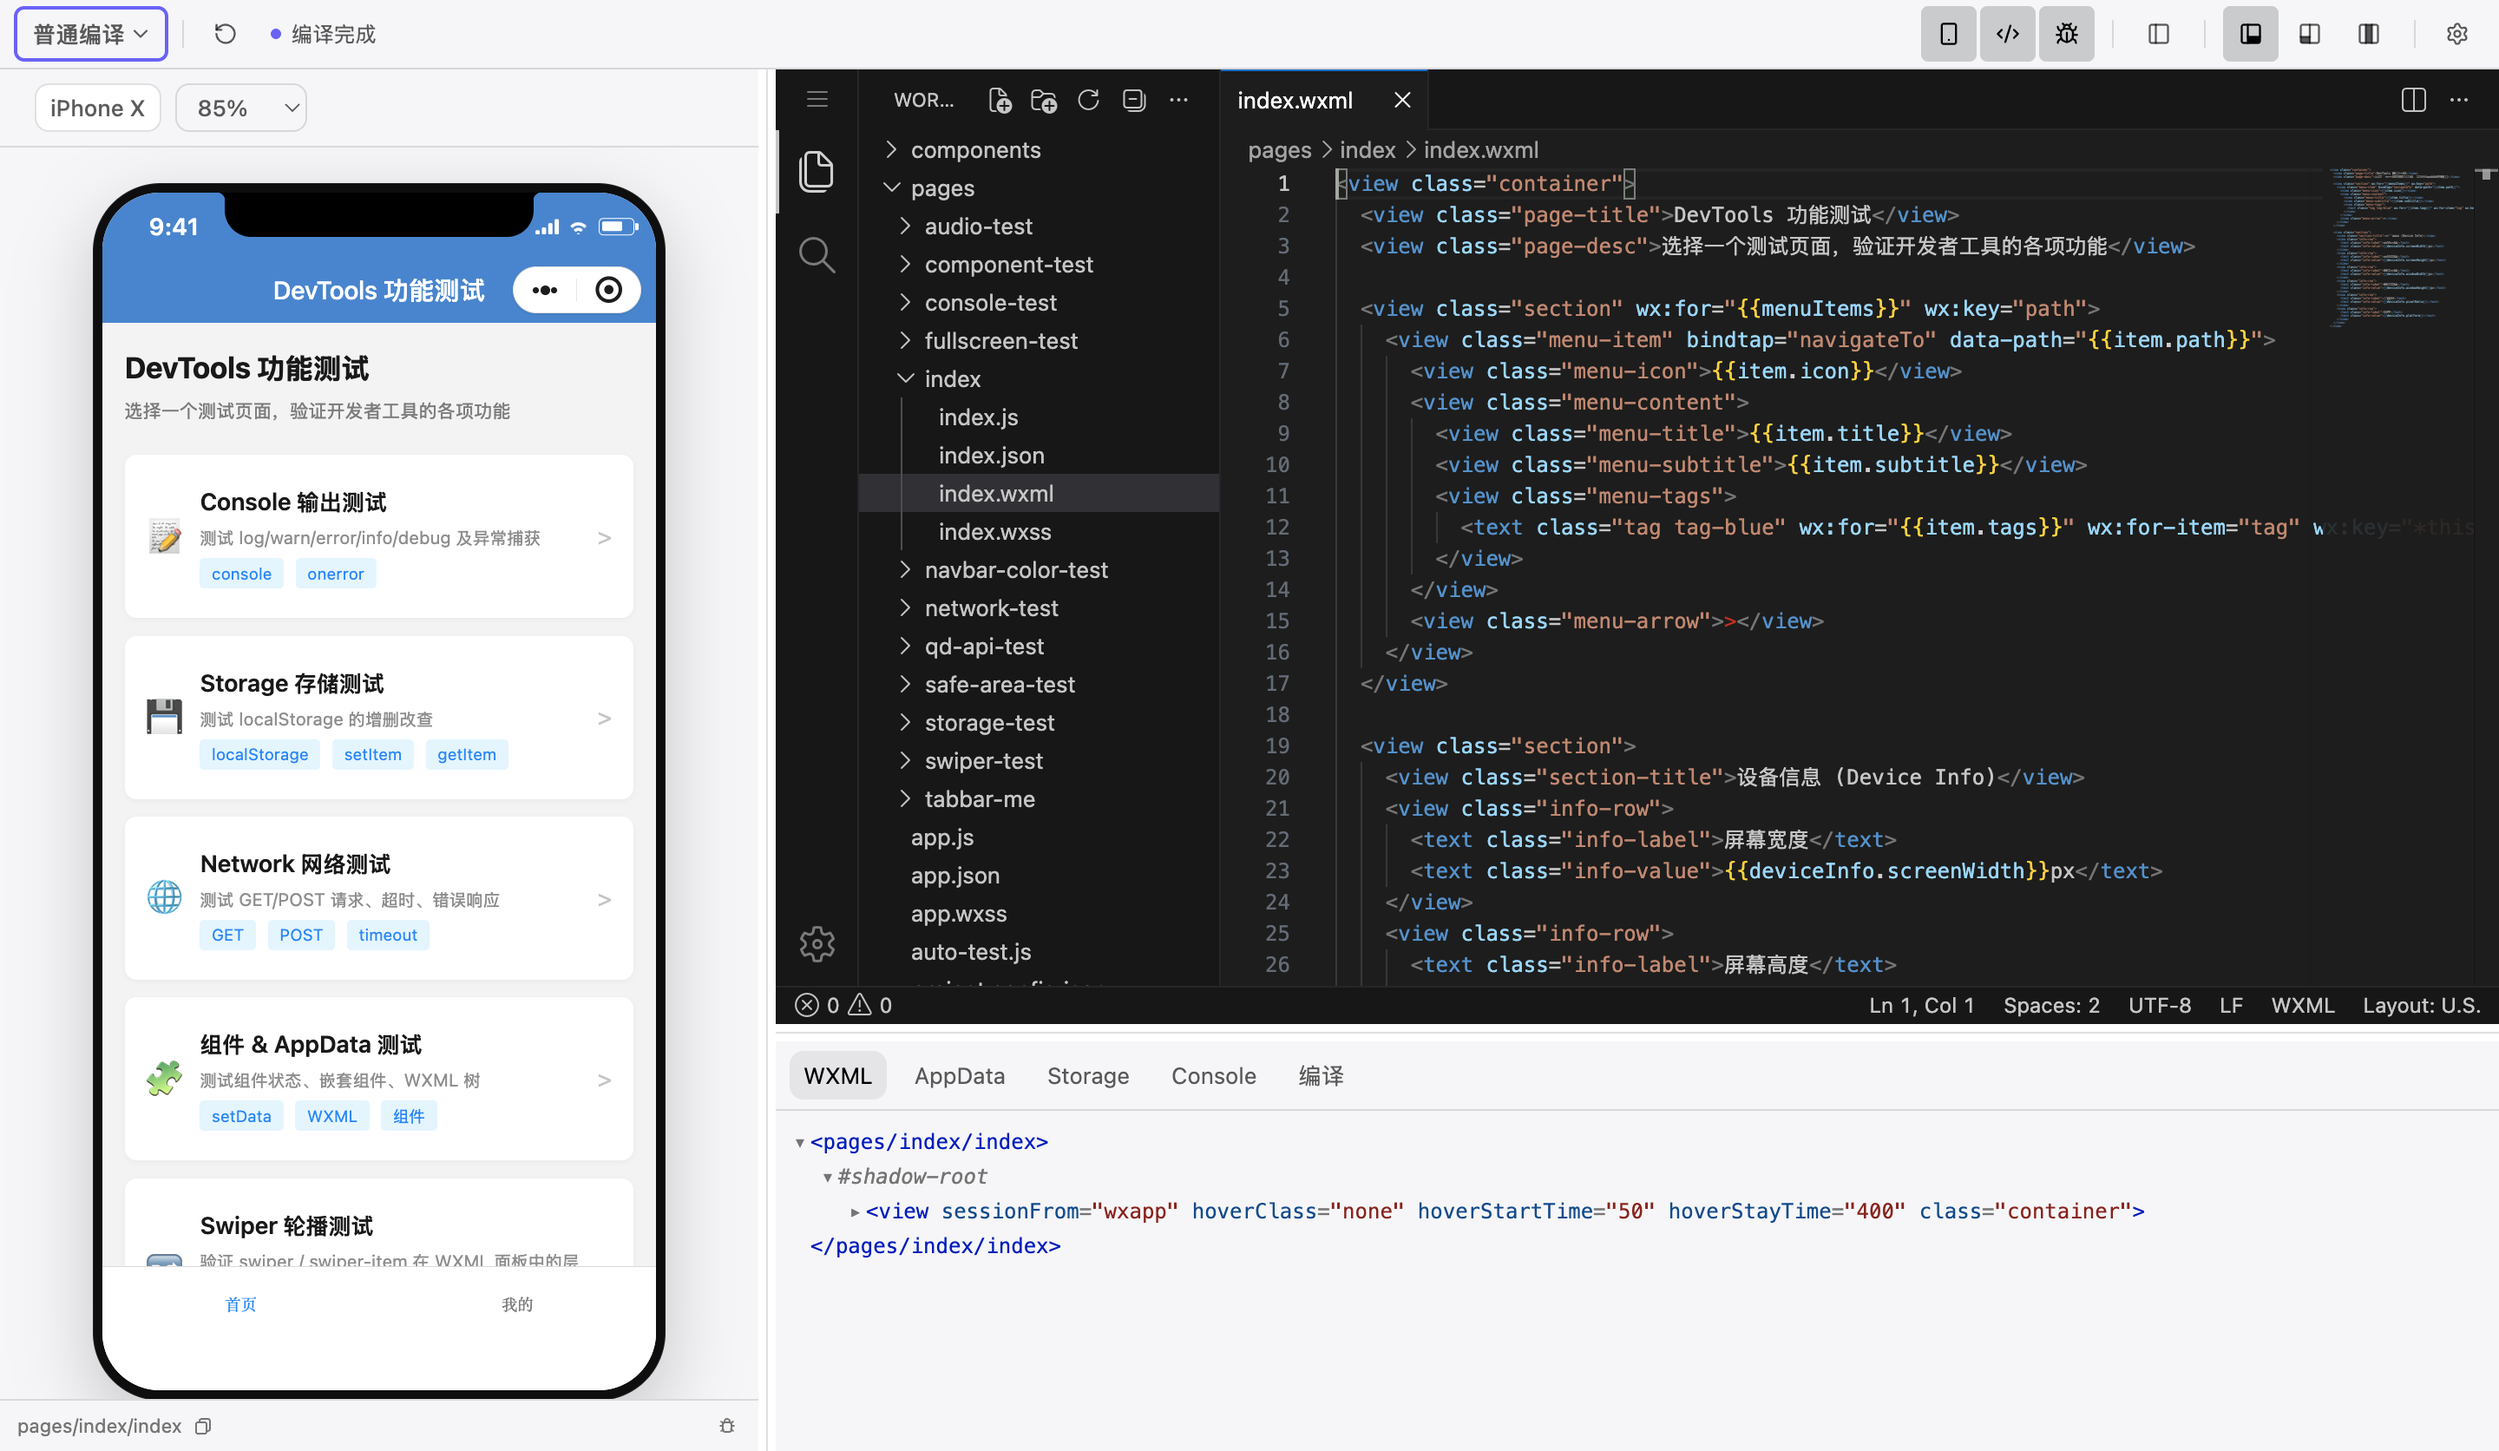
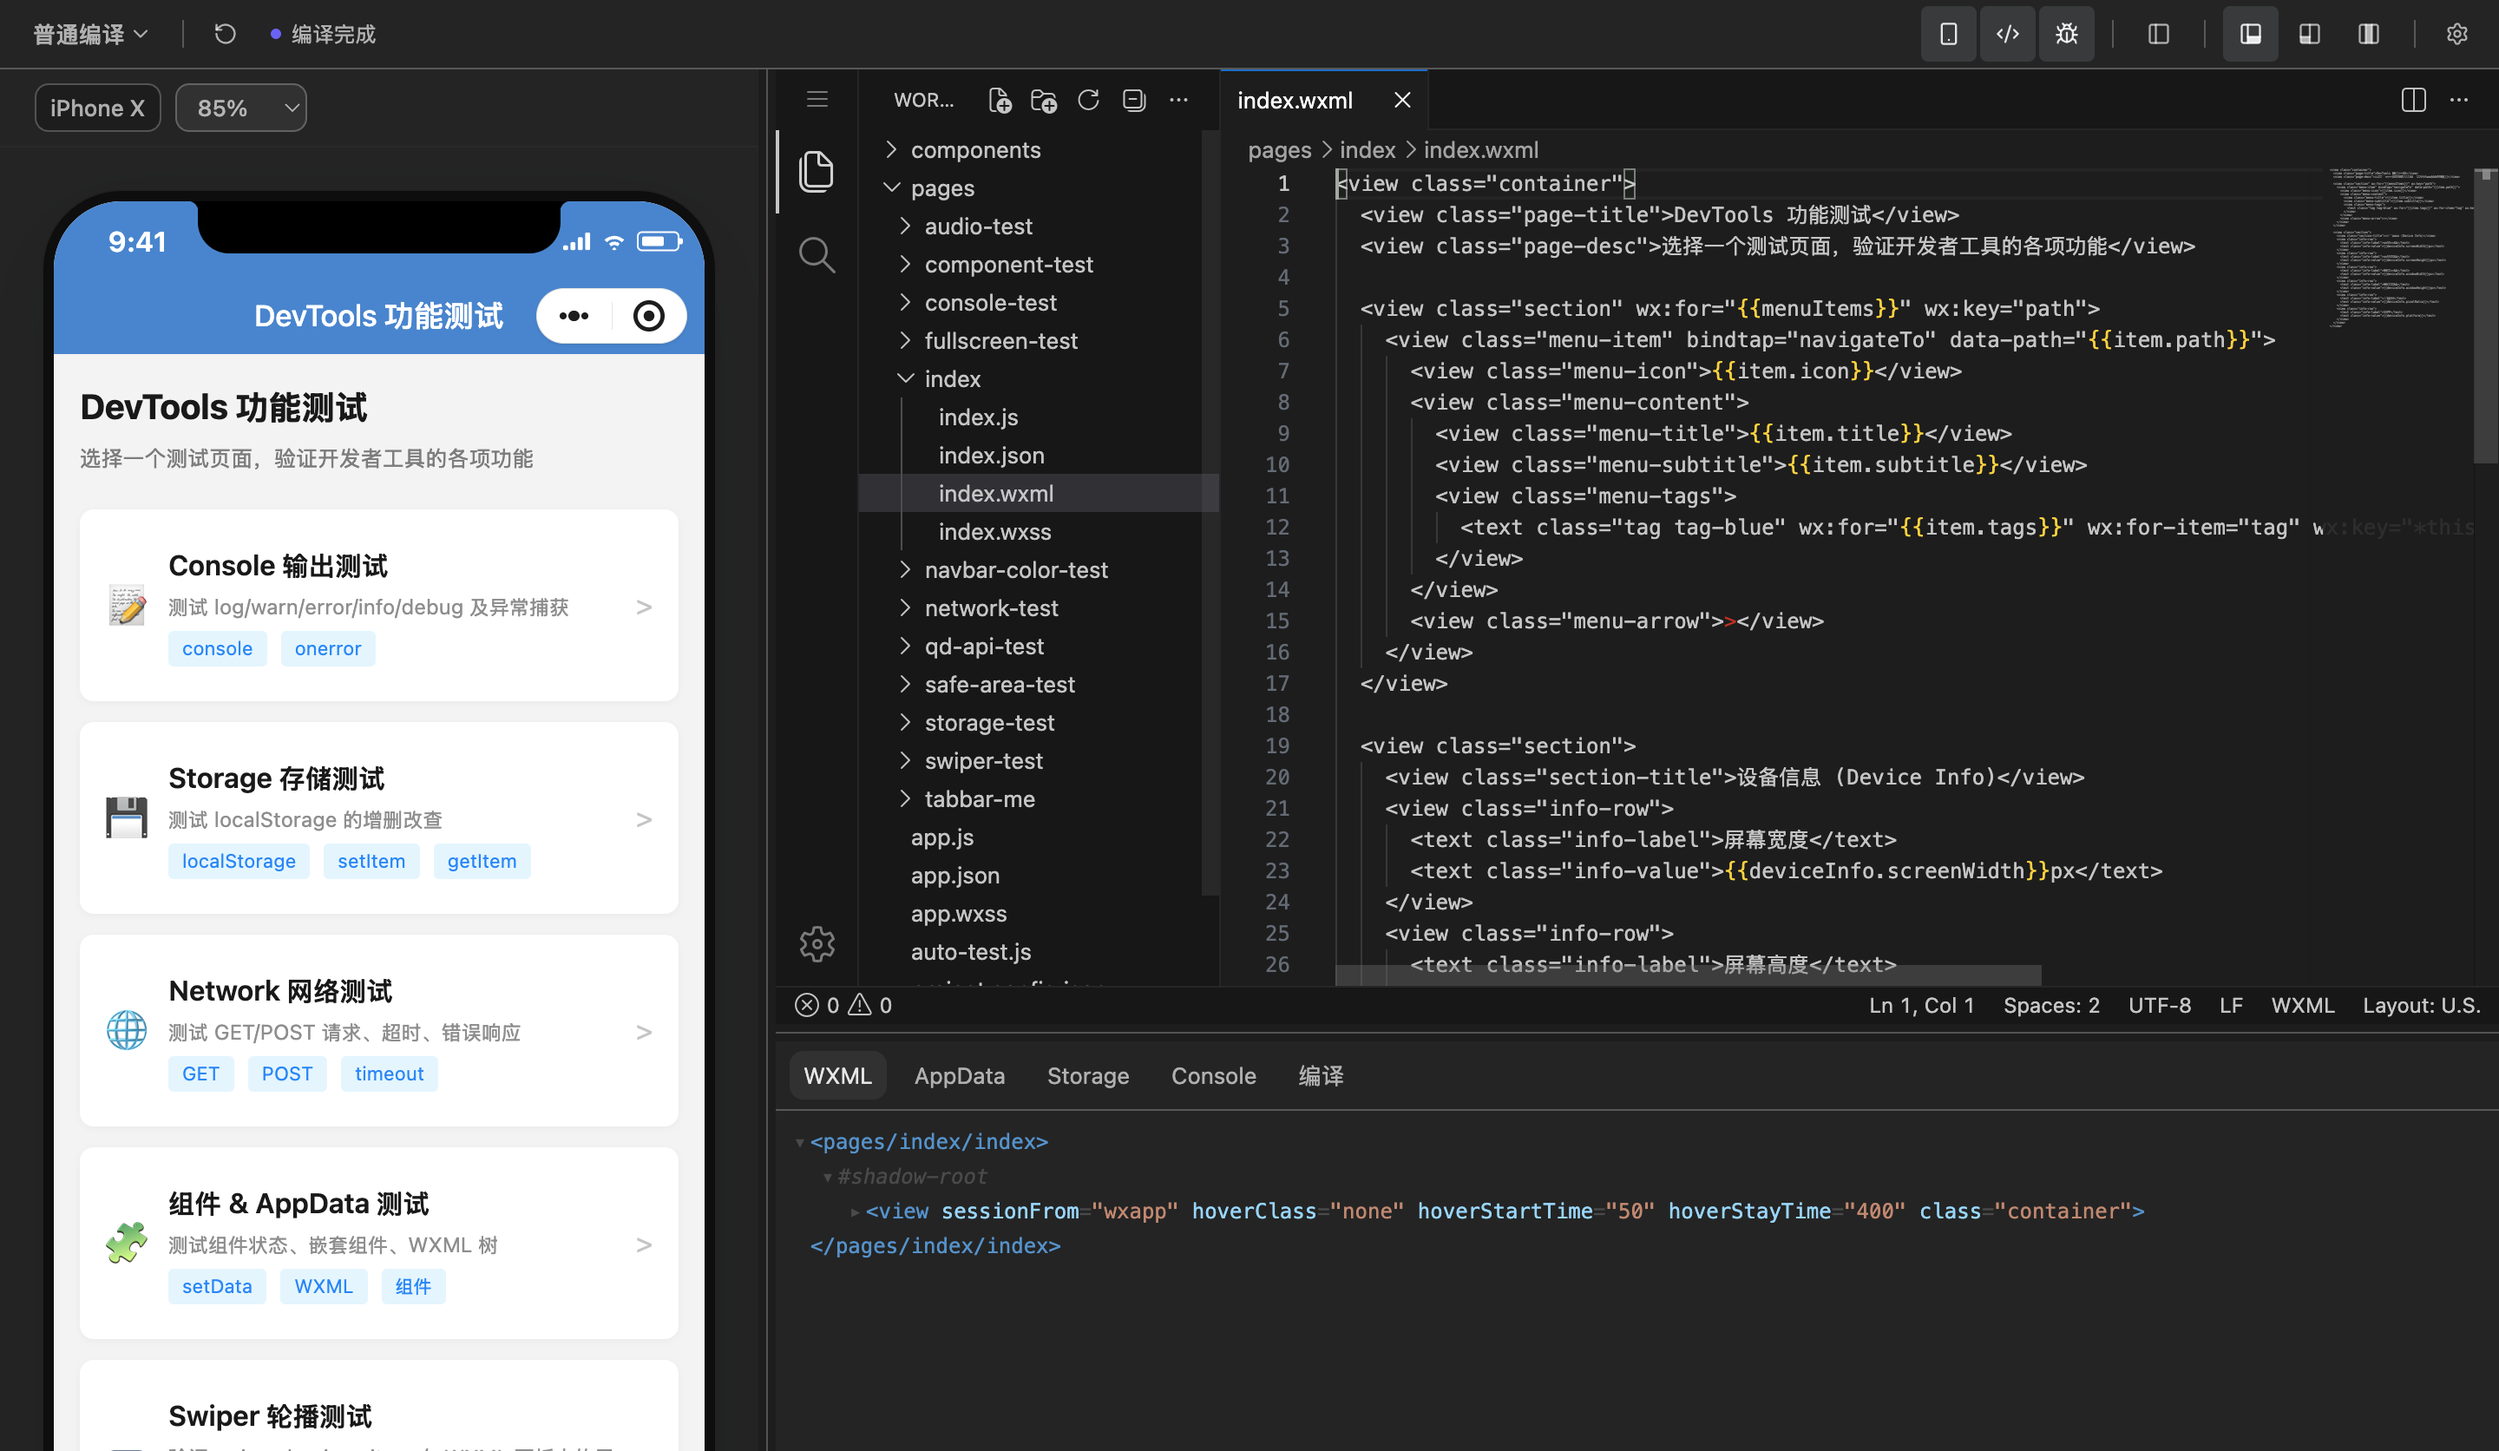
docs: add screenshot theme controls

diff --git a/docs/index.html b/docs/index.html
@@ -14,6 +14,7 @@
     <meta property="og:image" content="https://echotechfe.github.io/dimina-kit/devtools.png" />
     <link rel="stylesheet" href="./styles.css" />
     <script src="./downloads.js" defer></script>
+    <script src="./showcase-theme.js" defer></script>
   </head>
   <body>
     <header class="site-header">
@@ -41,7 +42,12 @@
         </div>
 
         <figure class="product-shot">
-          <picture>
+          <div class="product-shot-controls" role="group" aria-label="效果图主题">
+            <button type="button" data-shot-theme="system" aria-pressed="true">Auto</button>
+            <button type="button" data-shot-theme="light" aria-pressed="false">Light</button>
+            <button type="button" data-shot-theme="dark" aria-pressed="false">Dark</button>
+          </div>
+          <picture data-product-shot>
             <source media="(prefers-color-scheme: dark)" srcset="./devtools-dark.png" />
             <img src="./devtools.png" width="2880" height="1672" alt="Dimina DevTools 工作台，左侧为小程序模拟器，右侧为开发者工具" />
           </picture>

diff --git a/docs/showcase-theme.js b/docs/showcase-theme.js
@@ -1,0 +1,30 @@
+const preferenceKey = 'dimina-showcase-theme'
+const darkMedia = '(prefers-color-scheme: dark)'
+const productShot = document.querySelector('[data-product-shot]')
+const darkSource = productShot?.querySelector('source')
+const themeButtons = [...document.querySelectorAll('[data-shot-theme]')]
+
+function applyShowcaseTheme(theme) {
+  if (!darkSource || !['system', 'light', 'dark'].includes(theme)) return
+
+  darkSource.media = theme === 'system' ? darkMedia : theme === 'dark' ? 'all' : 'not all'
+  for (const button of themeButtons) {
+    button.setAttribute('aria-pressed', String(button.dataset.shotTheme === theme))
+  }
+}
+
+for (const button of themeButtons) {
+  button.addEventListener('click', () => {
+    const theme = button.dataset.shotTheme
+    applyShowcaseTheme(theme)
+    try {
+      localStorage.setItem(preferenceKey, theme)
+    } catch {}
+  })
+}
+
+let savedTheme = 'system'
+try {
+  savedTheme = localStorage.getItem(preferenceKey) || savedTheme
+} catch {}
+applyShowcaseTheme(savedTheme)

diff --git a/docs/styles.css b/docs/styles.css
@@ -187,6 +187,40 @@ h1 {
   margin: 0;
 }
 
+.product-shot-controls {
+  display: flex;
+  width: fit-content;
+  margin: 0 0 12px auto;
+  padding: 3px;
+  border: 1px solid var(--color-border);
+  border-radius: 8px;
+  background: var(--color-panel);
+}
+
+.product-shot-controls button {
+  min-width: 62px;
+  padding: 7px 12px;
+  border: 0;
+  border-radius: 5px;
+  color: var(--color-text-secondary);
+  background: transparent;
+  cursor: pointer;
+  font: inherit;
+  font-size: 13px;
+  font-weight: 650;
+}
+
+.product-shot-controls button[aria-pressed="true"] {
+  color: var(--color-text);
+  background: var(--color-surface-strong);
+  box-shadow: 0 1px 3px rgb(0 0 0 / 18%);
+}
+
+.product-shot-controls button:focus-visible {
+  outline: 2px solid var(--color-accent);
+  outline-offset: 1px;
+}
+
 .product-shot::before {
   position: absolute;
   z-index: -1;
